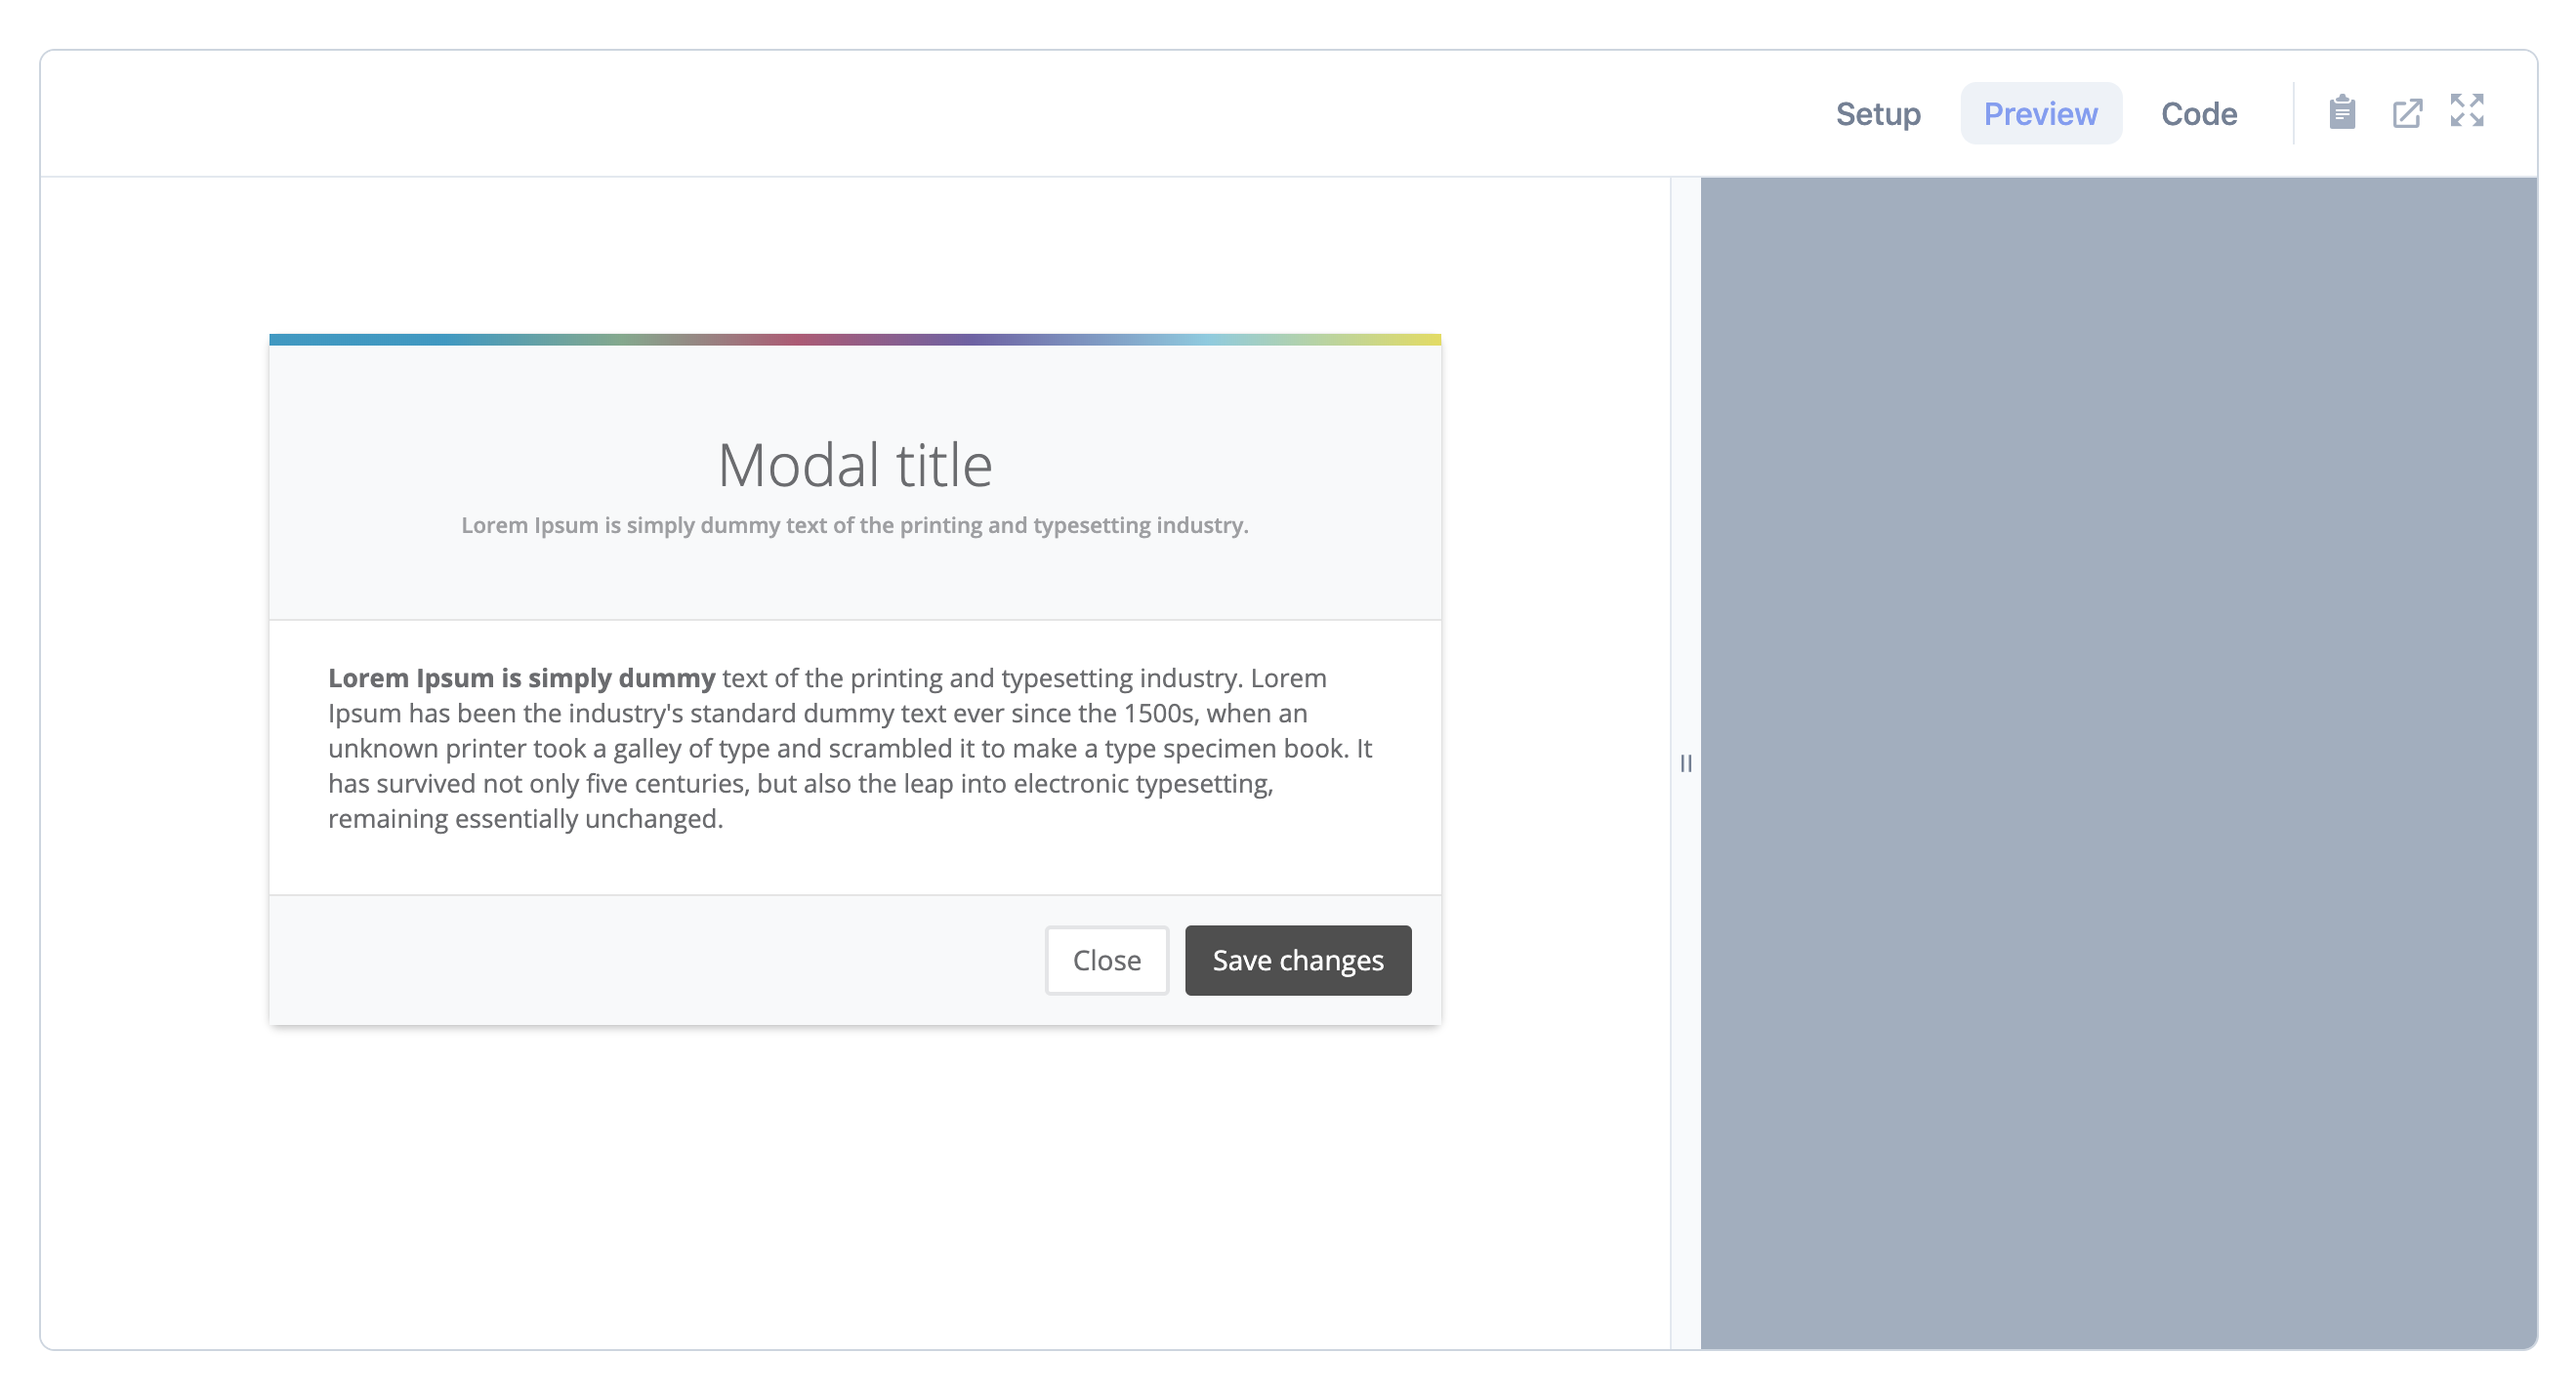
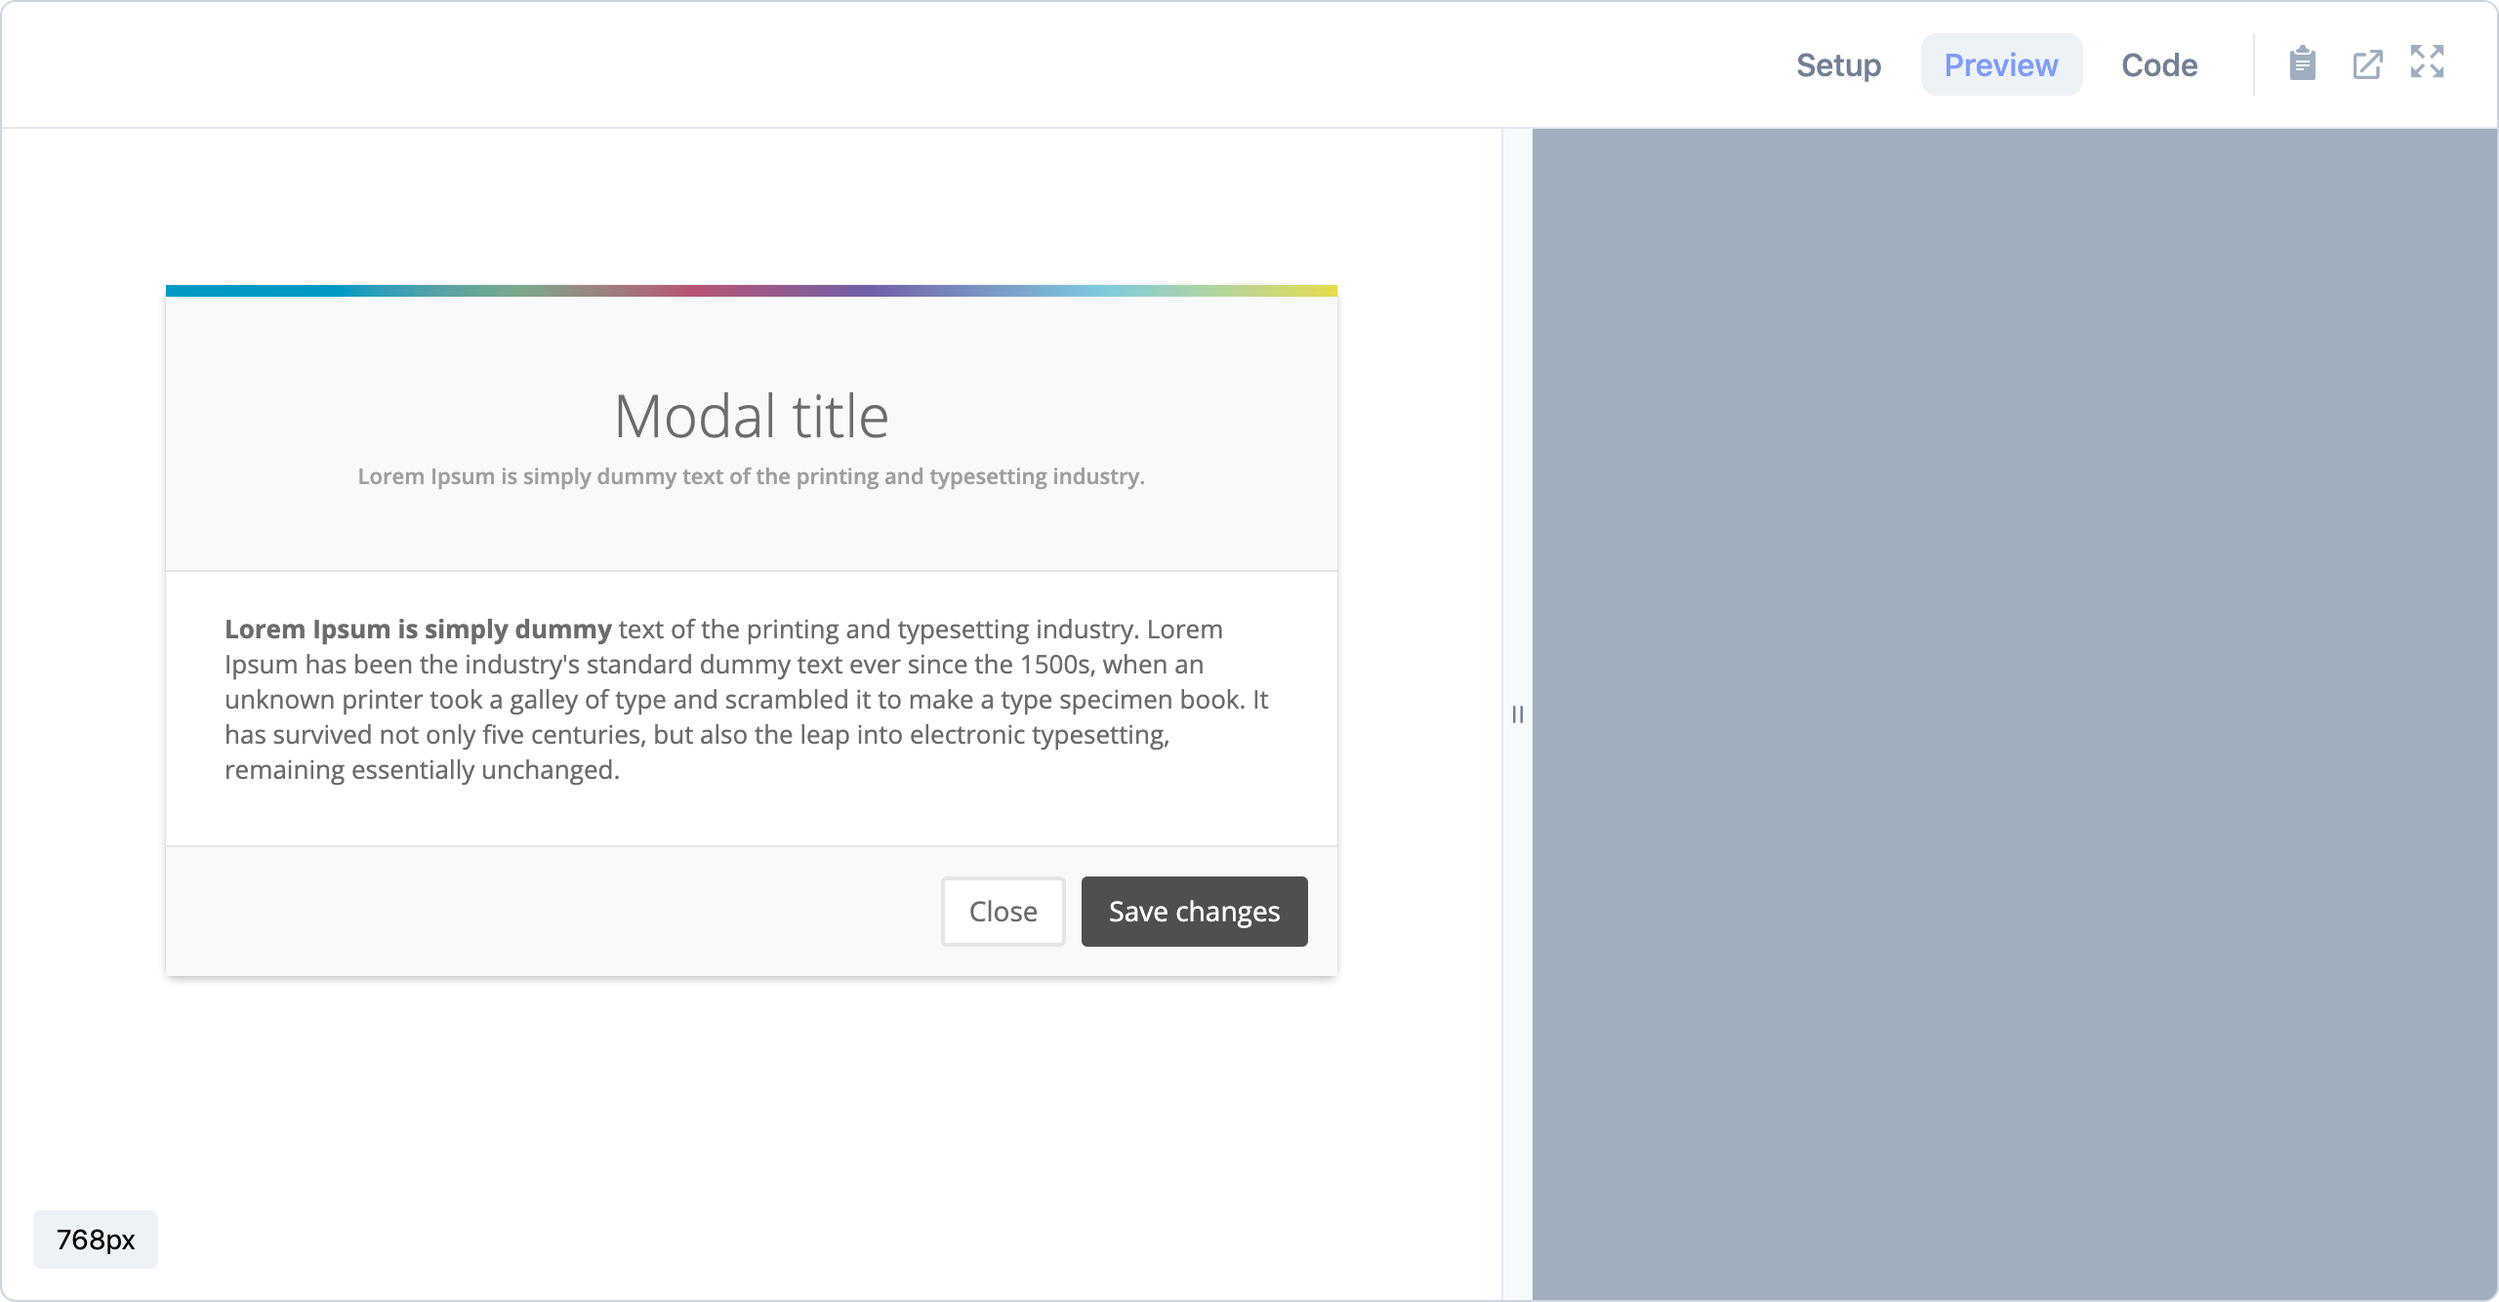
update readme

diff --git a/README.md b/README.md
@@ -51,6 +51,12 @@ In you HTML or template use the following setup;
 </div>
 ```
 
+## Extra Features
+
+- [x] Full screen mode
+- [x] Setup tab
+- [x] Display screen width in pixels
+
 ## Project setup
 ```
 npm install
